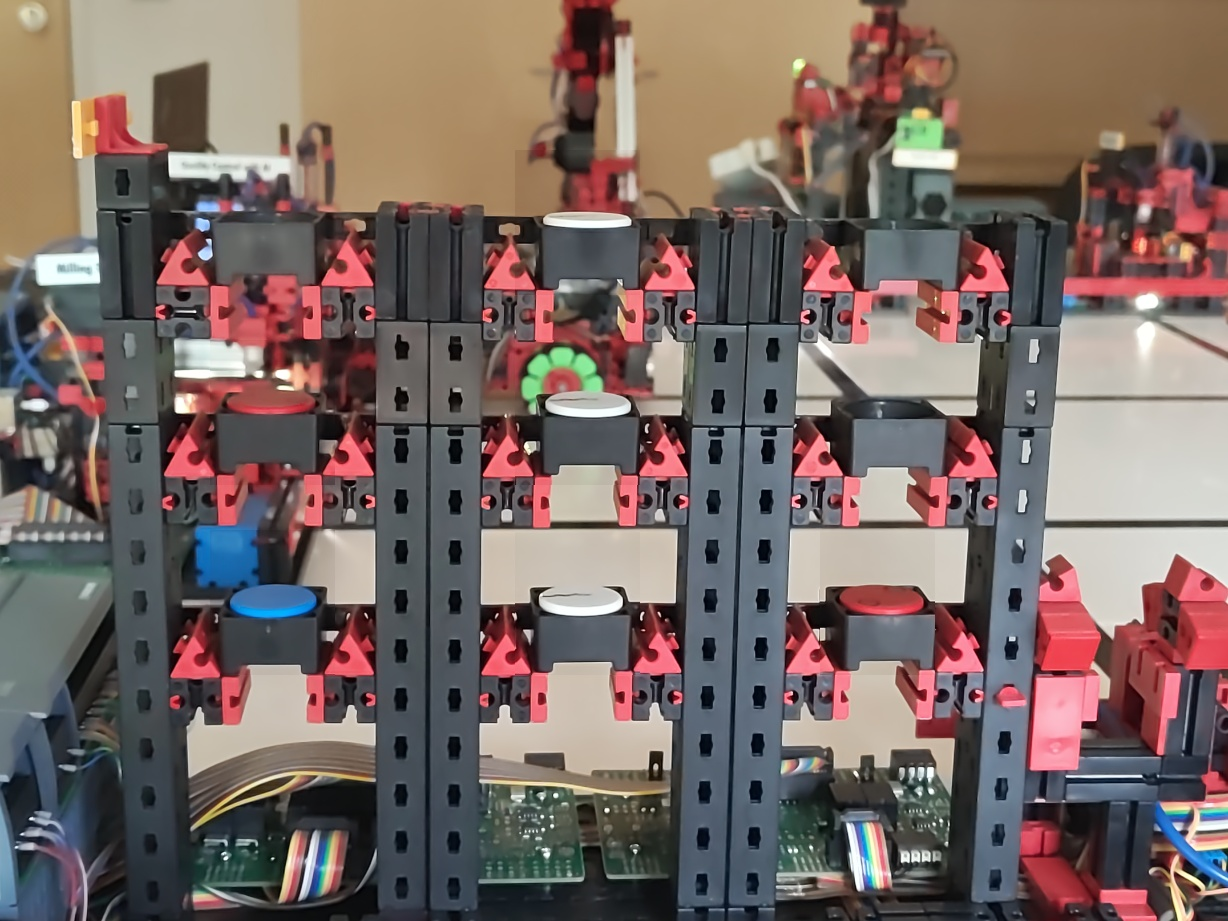
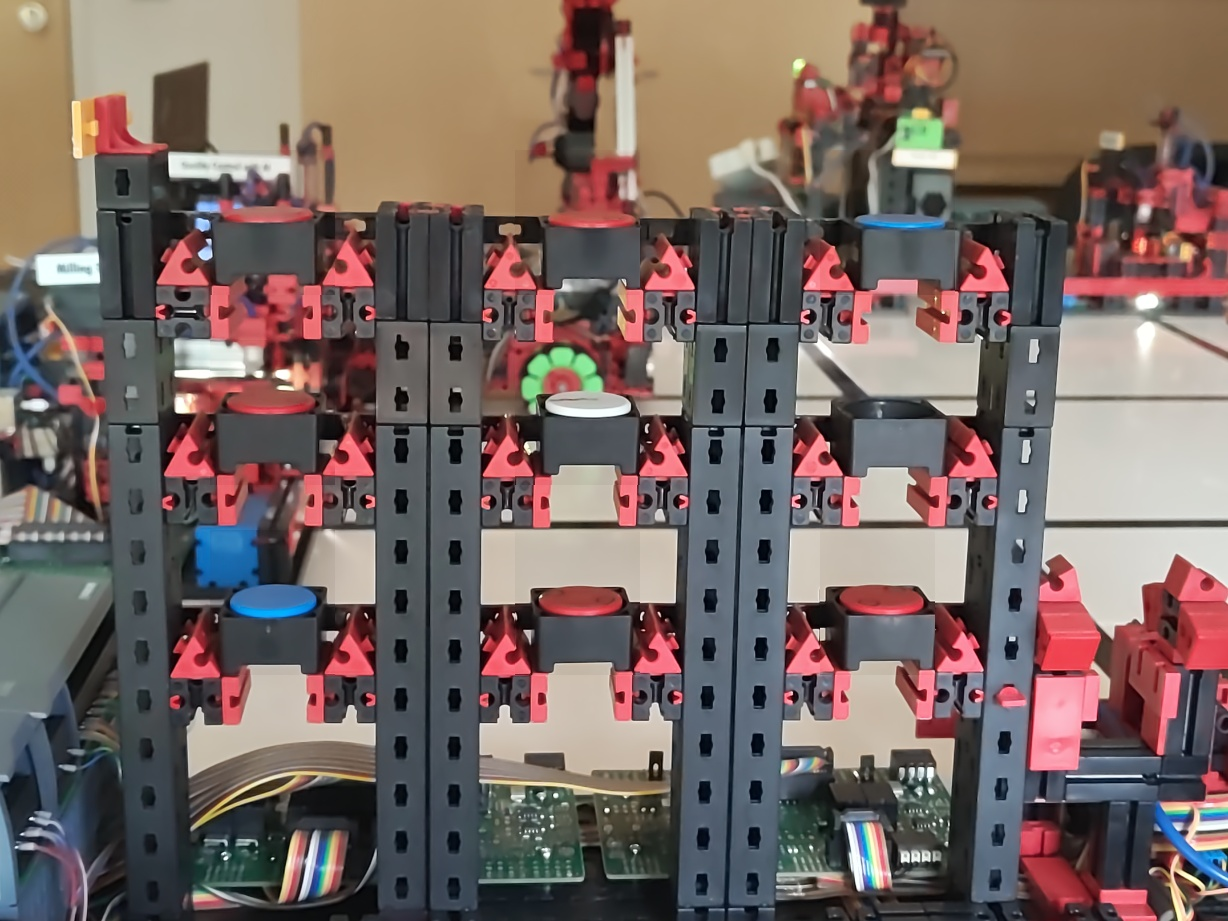
Version: 0.03.000 Minor Bug fixes

diff --git a/createImage.py b/createImage.py
@@ -1,4 +1,5 @@
 import random
+from unittest import case
 
 import cv2
 import numpy as np
@@ -19,6 +20,9 @@ def generiere_sps_state(sps_daten, generiere_fehler=False):
 
     # Basishintergrund (Regal mit leeren Containern) laden
     original_hintergrund = cv2.imread(os.path.join(datenbank_pfad, "empty_container.jpg"))
+
+    # Für generierung von Fehlbildern, Mapping mit Gewichtung der Eintrittswahrscheinlichkeit des jeweiligen Fehlers
+    gewichtung_anomalien = ENUM.GEWICHTUNG_ANOMALIEN
 
     if original_hintergrund is None:
         print("Fehler: 'empty_container.jpg' nicht gefunden!")
@@ -52,6 +56,8 @@ def generiere_sps_state(sps_daten, generiere_fehler=False):
         soll_farbe = fach['workpiece']['type']  # Werkstückfarbe
 
         if generiere_fehler and fehlerhaftes_fach == idx:
+            # Für generierung von Fehlbildern, Mapping mit Gewichtung der Eintrittswahrscheinlichkeit des jeweiligen Fehlers
+            gewichtung_anomalien = ENUM.GEWICHTUNG_ANOMALIEN_WERKSTUEK if soll_farbe != "" else ENUM.GEWICHTUNG_ANOMALIEN_OHNE_WERKSTUEK
             erzeugte_anomalie = str(np.random.choice(ENUM.ANOMALIEN, p=gewichtung_anomalien))
             neuer_zustand = ""
             match erzeugte_anomalie:

diff --git a/pipeline.py b/pipeline.py
@@ -1,6 +1,5 @@
 import cv2
 import numpy as np
-
 import ENUM
 
 # =========================================================
@@ -92,8 +91,9 @@ def analyze_container_presence_and_orientation(roi, debug_canvas=None, global_of
     # Wir zählen spaltenweise (vertikal), wie viele schwarze Pixel im Bodenbereich liegen.
     column_pixel_counts = np.sum(bottom_mask > 0, axis=0)
 
-    # Eine Spalte gilt als "Aussparung/Lücke", wenn weniger als 30% ihrer Höhe schwarz sind
-    empty_columns = np.sum(column_pixel_counts < (bottom_zone_h * 0.3))
+    # Eine Spalte gilt als "Aussparung/Lücke", wenn weniger als 75% ihrer Höhe schwarz sind
+    print(f"bottom_zone_h * 0.75 = {bottom_zone_h * 0.75} \n column_pixel_counts = {column_pixel_counts}")
+    empty_columns = np.sum(column_pixel_counts < (bottom_zone_h * 0.75))
 
     # Relativer Anteil der Lücke bezogen auf die Gesamtbreite des Behälters
     gap_ratio = empty_columns / float(bw)

diff --git a/hsvFarbraum.py b/hsvFarbraum.py
@@ -28,12 +28,12 @@ cv2.resizeWindow("HSV Einstellungen", 400, 300)
 # Trackbars für LOWER Vektor
 cv2.createTrackbar("Lower H", "HSV Einstellungen", 0, 180, nothing)
 cv2.createTrackbar("Lower S", "HSV Einstellungen", 0, 255, nothing)
-cv2.createTrackbar("Lower V", "HSV Einstellungen", 30, 255, nothing)
+cv2.createTrackbar("Lower V", "HSV Einstellungen", 65, 255, nothing)
 
 # Trackbars für UPPER Vektor
 cv2.createTrackbar("Upper H", "HSV Einstellungen", 180, 180, nothing)
-cv2.createTrackbar("Upper S", "HSV Einstellungen", 50, 255, nothing)
-cv2.createTrackbar("Upper V", "HSV Einstellungen", 150, 255, nothing)
+cv2.createTrackbar("Upper S", "HSV Einstellungen", 95, 255, nothing)
+cv2.createTrackbar("Upper V", "HSV Einstellungen", 146, 255, nothing)
 
 print("=" * 60)
 print(" HSV SCHIEBEREGLER - TOOL")

diff --git a/ENUM.py b/ENUM.py
@@ -34,7 +34,8 @@ BASISBILDER = {
 # Zuordnen von möglichen Belegungen, Anomalien und deren Eintrittswahrscheinlichkeit für jedes Fach
 BELEGUNGEN = ["RED", "BLUE", "WHITE", ""]
 ANOMALIEN = ["Farbe", "Verkantung", "Behälter_Rotiert", "Behälter_Fehlt"]
-GEWICHTUNG_ANOMALIEN = [0.6, 0.2, 0.1, 0.1]
+GEWICHTUNG_ANOMALIEN_WERKSTUEK = [0.6, 0.2, 0.1, 0.1]
+GEWICHTUNG_ANOMALIEN_OHNE_WERKSTUEK = [0.6, 0.0, 0.2, 0.2]
 
 IMAGE_PATH = "data/img/current.jpg"
 
